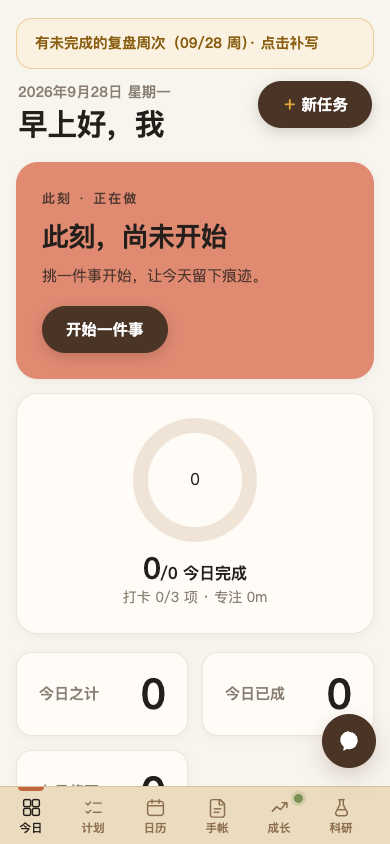
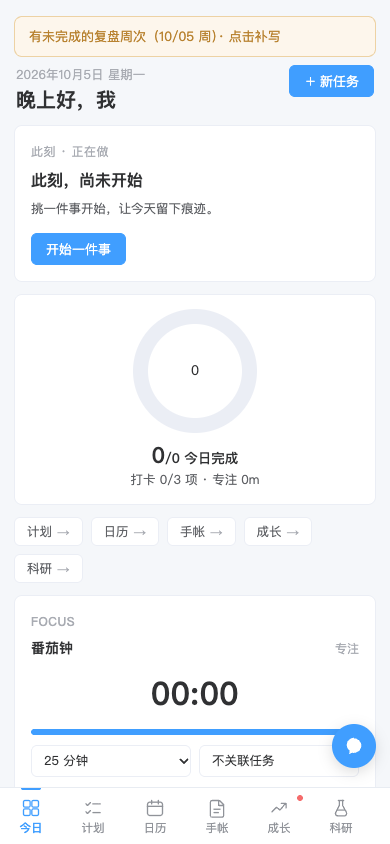
文档与图像同步到新视觉，图标生成脚本对齐配色
- README：界面取向改为「浅灰底 + 1px 细线 + 单一蓝」；补番茄钟、侧栏折叠、
  科研页截图；修正 clone 地址、表数量 22 → 23、Dexie 迁移 v10 → v12
- README：云同步快照说明改为「合并」而非整库替换（与实现一致）
- docs/screenshots：9 张截图全部按新视觉重截，删除临时的「新版-*」图
- scripts/make-icons.py：色板从暖可可换成 #409eff，构图改为蓝底圆角方块 +
  「工」字，与现有图标一致（否则下次跑脚本会把图标改回旧配色）

diff --git a/scripts/make-icons.py b/scripts/make-icons.py
@@ -1,57 +1,56 @@
-"""生成暖色系 PWA 图标（暖可可底 + 暖砂进度环）。
+"""生成 PWA 图标（蓝底圆角方块 +「工」字）。
 
-沿用原图标的构图（圆角方块 + 一圈进度环），只把配色从旧的「深灰底 + 冷青环」
-换成工作台当前色板：--primary 暖可可 #4a3426 / --shell 暖砂 #ecdcbf。
+配色取自工作台当前色板：--primary #409eff（全站唯一强调色），字为纯白。
+构图刻意做得简单：一个圆角方块加一个字，缩到 16px 也认得出。
 4 倍超采样后缩放，保证边缘平滑；不使用渐变（设计禁区）。
+
+用法：python3 scripts/make-icons.py
+（macOS 的 .icns 另需 iconset + `iconutil -c icns`，不走这个脚本。）
 """
-from PIL import Image, ImageDraw
+from PIL import Image, ImageDraw, ImageFont
 
-COCOA = (74, 52, 38, 255)      # --primary 暖可可
-SAND = (236, 220, 191, 255)    # --shell 暖砂
-TRACK = (107, 84, 66, 255)     # 环底：可可略提亮
+PRIMARY = (64, 158, 255, 255)   # --primary #409eff
+WHITE = (255, 255, 255, 255)    # 方块上的字
 SS = 4                          # 超采样倍数
-START = -90                     # 起点在 12 点方向
-SWEEP = 232                     # 已完成部分约 64%
+RADIUS = 0.22                   # 圆角占边长比例
+
+# macOS 上 PingFang.ttc 常常读不到，Hiragino Sans GB 是稳定的中文形来源
+FONT_CANDIDATES = [
+    ("/System/Library/Fonts/Hiragino Sans GB.ttc", 0),
+    ("/Library/Fonts/Arial Unicode.ttf", 0),
+]
 
 
-def rounded_bg(size, radius_ratio=0.225, full_bleed=False):
-    img = Image.new("RGBA", (size, size), (0, 0, 0, 0))
-    d = ImageDraw.Draw(img)
-    if full_bleed:
-        d.rectangle([0, 0, size, size], fill=COCOA)
-    else:
-        r = int(size * radius_ratio)
-        d.rounded_rectangle([0, 0, size - 1, size - 1], radius=r, fill=COCOA)
-    return img
+def load_font(px):
+    for path, idx in FONT_CANDIDATES:
+        try:
+            return ImageFont.truetype(path, px, index=idx)
+        except Exception:
+            continue
+    return ImageFont.load_default()
 
 
-def draw_ring(img, size, ring_ratio=0.60, stroke_ratio=0.115):
-    """ring_ratio：环直径占画布比例（maskable 要更小才落在安全区）。"""
+def make(size, glyph_ratio=0.56):
+    """glyph_ratio：字高占画布比例。maskable 要更小才落在圆形安全区内。"""
     s = size * SS
-    img_big = img.resize((s, s), Image.LANCZOS)
-    d = ImageDraw.Draw(img_big)
-    d_ring = s * ring_ratio
-    stroke = s * stroke_ratio
-    box = [(s - d_ring) / 2, (s - d_ring) / 2, (s + d_ring) / 2, (s + d_ring) / 2]
-    d.arc(box, START, START + 360, fill=TRACK, width=int(stroke))
-    d.arc(box, START, START + SWEEP, fill=SAND, width=int(stroke))
-    return img_big.resize((size, size), Image.LANCZOS)
-
-
-def make(size, full_bleed=False, ring_ratio=0.60):
-    base = rounded_bg(size * SS, full_bleed=full_bleed)
-    img = draw_ring(base, size, ring_ratio=ring_ratio)
-    return img
+    img = Image.new("RGBA", (s, s), (0, 0, 0, 0))
+    d = ImageDraw.Draw(img)
+    d.rounded_rectangle([0, 0, s - 1, s - 1], radius=int(s * RADIUS), fill=PRIMARY)
+    f = load_font(max(8, int(s * glyph_ratio)))
+    bbox = d.textbbox((0, 0), "工", font=f)
+    w, h = bbox[2] - bbox[0], bbox[3] - bbox[1]
+    d.text(((s - w) / 2 - bbox[0], (s - h) / 2 - bbox[1]), "工", font=f, fill=WHITE)
+    return img.resize((size, size), Image.LANCZOS)
 
 
 if __name__ == "__main__":
     import os
-    out = os.path.join(os.path.dirname(__file__), "..", "public", "icons")
-    out = os.path.abspath(out)
+
+    out = os.path.abspath(os.path.join(os.path.dirname(__file__), "..", "public", "icons"))
     make(192).save(os.path.join(out, "icon-192.png"))
     make(512).save(os.path.join(out, "icon-512.png"))
-    # maskable：整幅铺底，环缩到 0.42 保证落在圆形安全区内
-    make(512, full_bleed=True, ring_ratio=0.42).save(os.path.join(out, "maskable-512.png"))
-    # iOS 会自己加圆角，所以铺满不留透明
-    make(180, full_bleed=True).save(os.path.join(out, "apple-touch-icon.png"))
+    # maskable：字缩到 0.46，保证落在系统裁出的圆形安全区内
+    make(512, glyph_ratio=0.46).save(os.path.join(out, "maskable-512.png"))
+    # iOS 自己会加圆角，所以铺满不留透明
+    make(180).save(os.path.join(out, "apple-touch-icon.png"))
     print("icons written to", out)

diff --git a/README.md b/README.md
@@ -22,19 +22,19 @@
 - **本地优先**：所有数据先写进浏览器的 IndexedDB，不登录、不联网也能完整使用。云端同步是后加的、可关掉的选项，不是前提。
 - **不做每日总结**：日报只给模板，需要"被说说"的是每周复盘。少一点打扰。
 - **AI 只在它真能加分的环节出现**：语音说一句拆成任务、把随笔改得更顺、每周给一条建议、每天挑三条见闻。其余地方不硬塞 AI。
-- **界面安静**：无渐变、无玻璃拟态、无装饰性插图，暖色纸感，内容用真实数据填满。
+- **界面安静**：浅灰底 + 纯白卡，全靠 1px 细线分层；无渐变、无玻璃拟态、无装饰性插图。全站只有一种强调色（蓝），字重不超过 600，让眼睛落在内容而不是装饰上。
 
 ## 功能一览
 
 | 模块 | 能做的事 |
 | --- | --- |
-| **今日** | 问候与日期、正在做的一件事、今日印记（打卡）、今日之计 / 今日已成 / 七日将至、连续天数、AI 见闻（每天 6 条） |
+| **今日** | 问候与日期、正在做的一件事、**番茄钟（25/30/40/50 分钟，走完自动记到任务上）**、今日印记（打卡）、今日之计 / 今日已成 / 七日将至、连续天数、AI 见闻（每天 6 条） |
 | **计划** | 日常与重复 / 遥远的目标 / 搁浅的计划三条线；清单、双时间轴、看板、甘特四种视图；计时与补时、deadline 紧急度、重复规则（每天 / 仅工作日 / 每周几 / 每隔几天）；**语音「说出来」一句话拆成多条任务**；移动端左滑完成、长按编辑 |
 | **日历** | 月视图与周视图、节假日与调休角标（holiday-cn，离线缓存）、选中日的安排、本周任务、即将到来的事 |
 | **手账** | 碎碎念（可让 AI 改写，原文与 AI 版二选一）、每日一句、打卡热力图 |
 | **成长** | 复盘（复盘日可自定、错过会提示补写历史周）、日报 / 周报模板、技能、健身打卡、成就殿堂、长期资产库 |
 | **科研** | 项目 / 方向 / 笔记 / 心得，独立成区、不混进资产库，日程并入总日历 |
-| **全局** | 命令面板 `Cmd/Ctrl + K`、操作撤销条、六类内容全局搜索、模块显隐与拖拽排序、导出 / 导入备份、每周本地快照、PWA 可安装可离线 |
+| **全局** | 命令面板 `Cmd/Ctrl + K`、操作撤销条、六类内容全局搜索、模块显隐与拖拽排序、**侧栏可折叠成图标条**、导出 / 导入备份、每周本地快照、PWA 可安装可离线 |
 
 ## 界面
 
@@ -58,6 +58,10 @@
 
 ![成长](docs/screenshots/04-growth.png)
 
+**科研**：项目 / 方向 / 笔记 / 心得独立成区，进度与日程分开管理。
+
+![科研](docs/screenshots/09-research.png)
+
 **设置**：AI 的分寸（可以逐项决定哪些内容允许 AI 读）、分类、打卡项、数据导出与快照。
 
 ![设置](docs/screenshots/05-settings.png)
@@ -75,8 +79,8 @@
 需要 Node.js 18 以上（开发环境用 22 验证）。
 
 ```bash
-git clone https://github.com/<你的用户名>/<仓库名>.git
-cd life-workbench
+git clone https://github.com/DreamMachineC/personal-workbench.git
+cd personal-workbench
 npm install
 npm run dev
 ```
@@ -189,9 +193,9 @@ CREATE POLICY wb_news_read_all ON wb_news FOR SELECT TO authenticated, anon USIN
 
 ## 数据与隐私
 
-- **数据在哪**：浏览器 IndexedDB，库名 `LifeWorkbench`，22 张表。文件系统里没有任何用户数据文件。
+- **数据在哪**：浏览器 IndexedDB，库名 `LifeWorkbench`，23 张表。文件系统里没有任何用户数据文件。
 - **默认零上传**：不配置上面的环境变量时，除了「每日见闻」（只向 Hacker News 与 GitHub 的公开接口取标题，不携带任何个人信息）以外，应用不发任何请求。
-- **云同步是 opt-in**：表的行级权限按 `auth.uid()` 限制，别人即使拿到你的 `publishableKey` 也读不到你的数据；且服务端会校验来源域名。同步前会在本机先留一份快照，可以随时「回到那天」。
+- **云同步是 opt-in**：表的行级权限按 `auth.uid()` 限制，别人即使拿到你的 `publishableKey` 也读不到你的数据；且服务端会校验来源域名。同步前会在本机先留一份快照，可以随时「并回那份快照」——注意它是**合并**（本机比快照新的内容不会被覆盖），不是整库替换。
 - **AI 有开关**：设置里的「AI 的分寸」可以逐项决定哪些内容允许 AI 读取（今天的任务 / 每周统计 / 心情分数 / 随笔原文 / 在练的技艺 / 健身记录）。关掉时，AI 只看汇总数字，读不到原文。
 - **备份**：设置页可以导出 JSON、也可以把每周快照导回。**导出的备份里是你的真实生活数据，别提交到任何仓库** —— 这也是 `.gitignore` 里拦掉 `*.backup.json` 的原因。
 
@@ -210,7 +214,7 @@ CREATE POLICY wb_news_read_all ON wb_news FOR SELECT TO authenticated, anon USIN
 | 离线 | vite-plugin-pwa（自动生成的 Service Worker） |
 | 可选云端 | `@tencent-ai/workbuddy-cloud-sdk`（大模型 + 云数据库 + 认证） |
 
-配色、间距、圆角、命名这套视觉规则单独写在了 [`设计总则.md`](设计总则.md) 里，想改皮肤先读它。
+配色（浅灰底 + 纯白卡 + 1px 细线 + 单一蓝 `#409eff`）、间距、圆角、字重这套视觉规则单独写在了 [`设计总则.md`](设计总则.md) 里，想改皮肤先读它 —— 它末尾还有四条自查门槛（字号 ≤ 20px？字重 ≤ 600？圆角 ≤ 8px？有没有多出一种颜色？）。
 
 ## 目录结构
 
@@ -218,7 +222,7 @@ CREATE POLICY wb_news_read_all ON wb_news FOR SELECT TO authenticated, anon USIN
 life-workbench/
 ├─ src/
 │  ├─ App.vue            # 外壳：桌面侧栏 / 移动底部导航、命令面板、撤销条、模块注册表
-│  ├─ db.js              # Dexie 表结构与默认数据（含 v1 → v10 迁移）
+│  ├─ db.js              # Dexie 表结构与默认数据（含 v1 → v12 迁移、软删除表清单）
 │  ├─ composables.js     # 各类响应式查询封装
 │  ├─ date.js            # 日期、工作日、重复规则的判定
 │  ├─ instance.js        # 幂等补算当日重复任务实例
